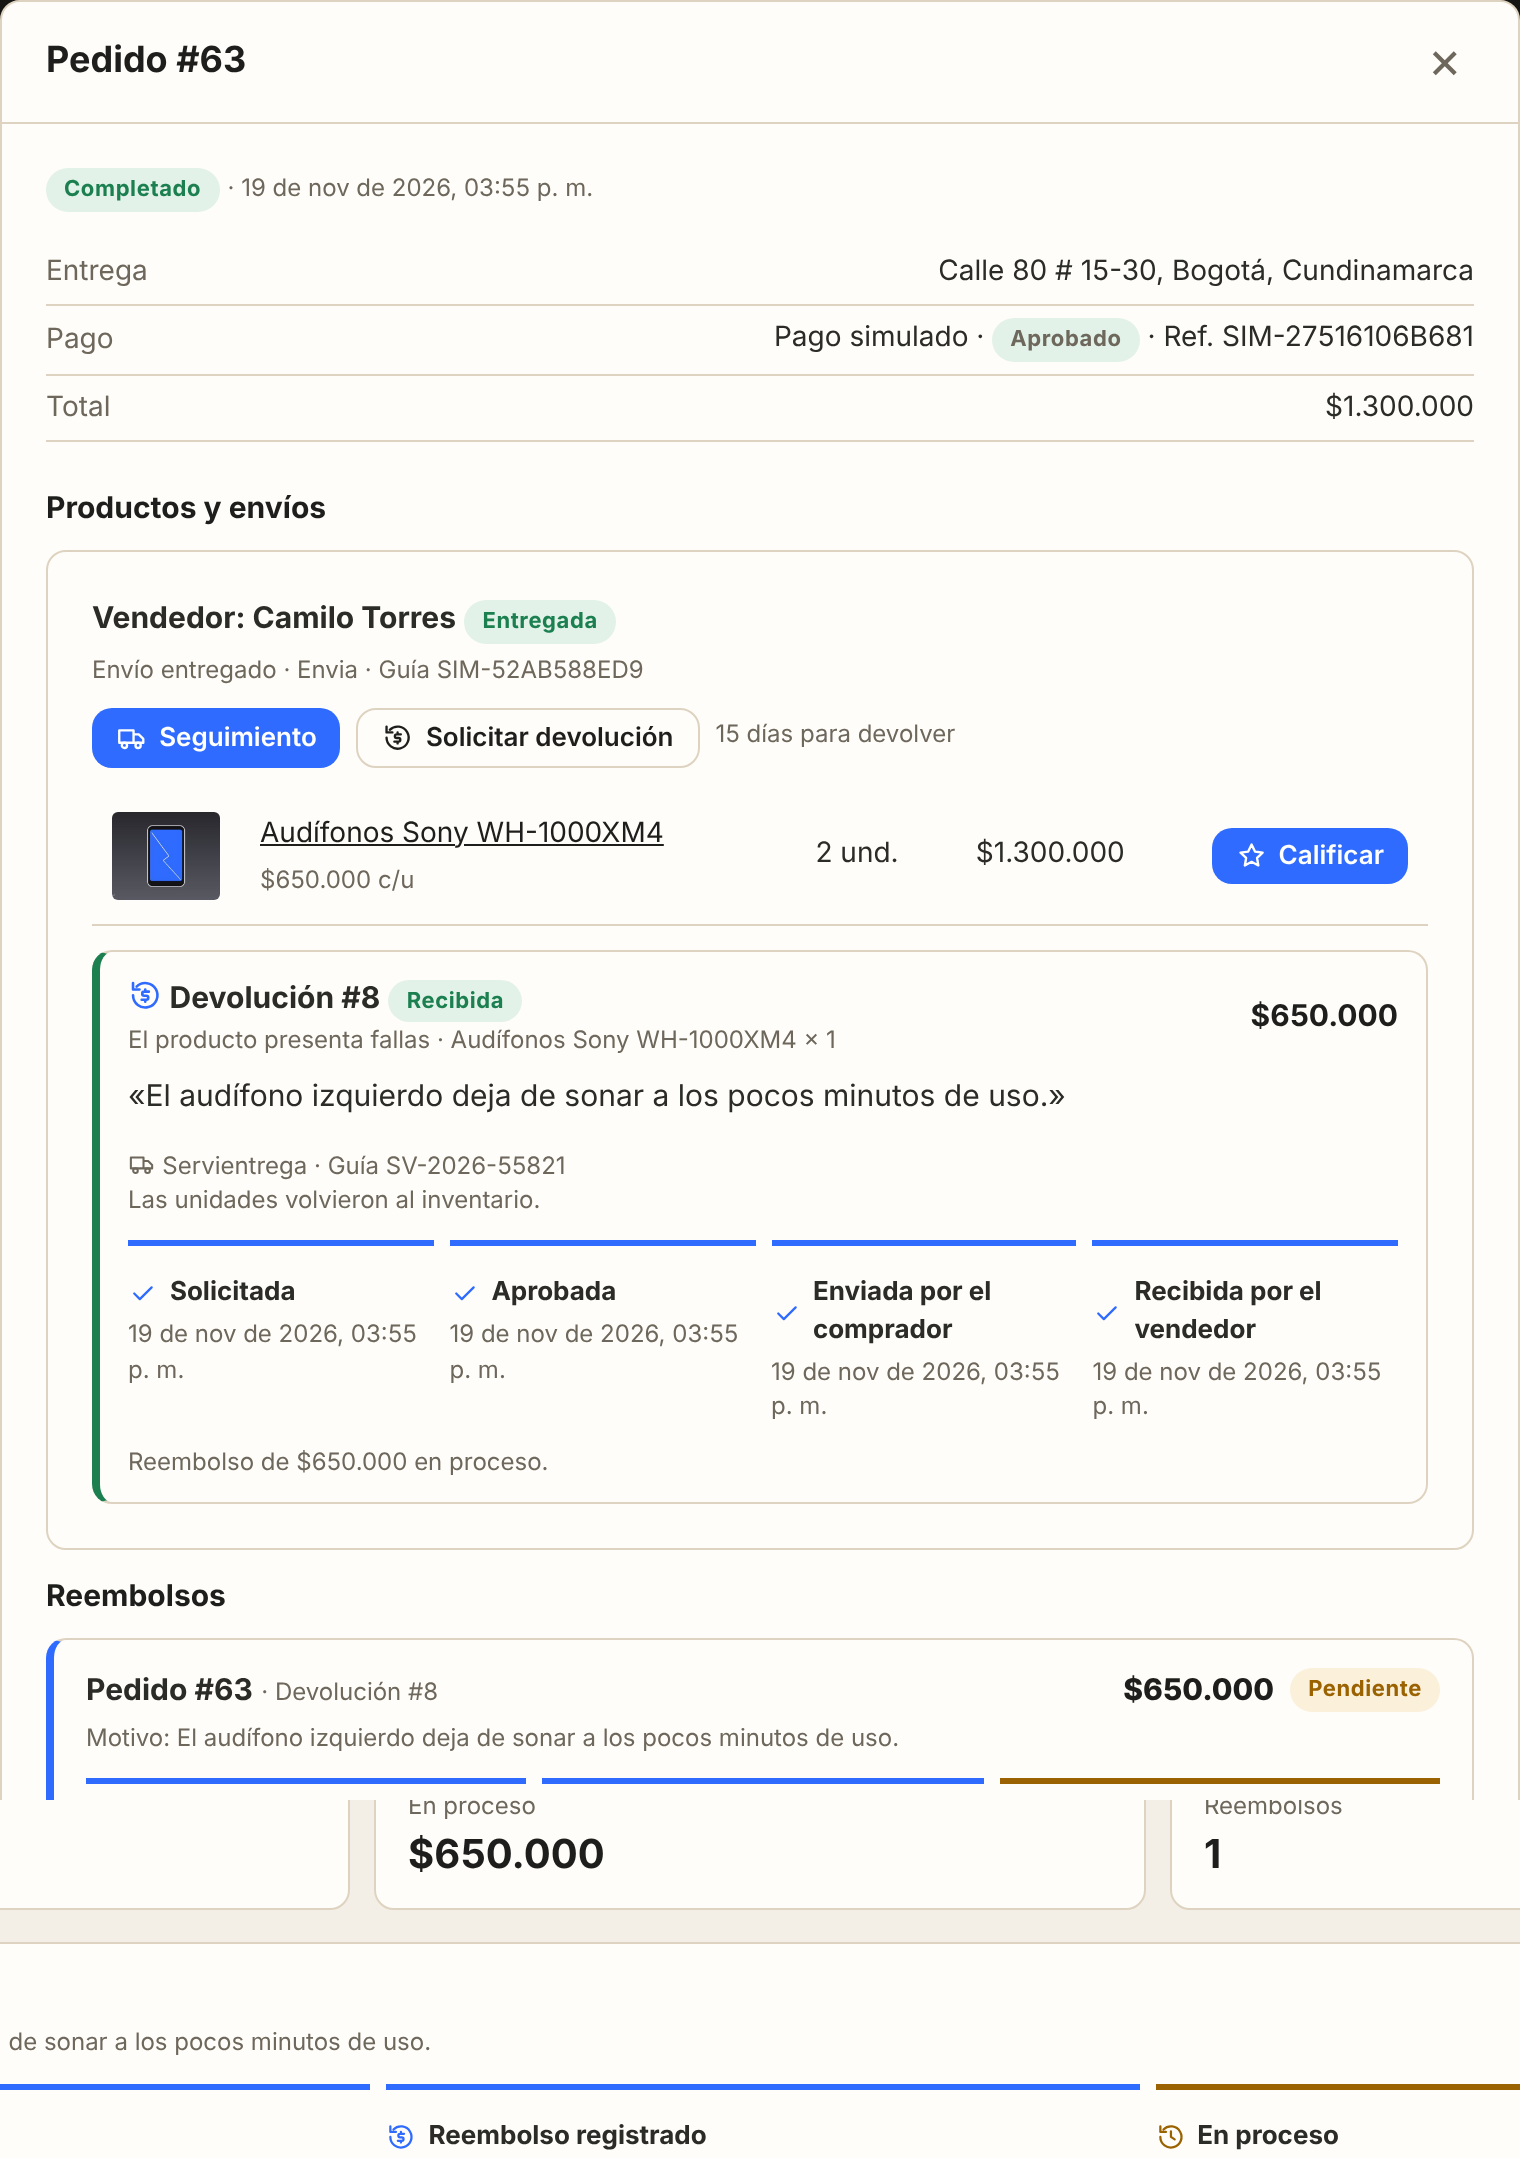
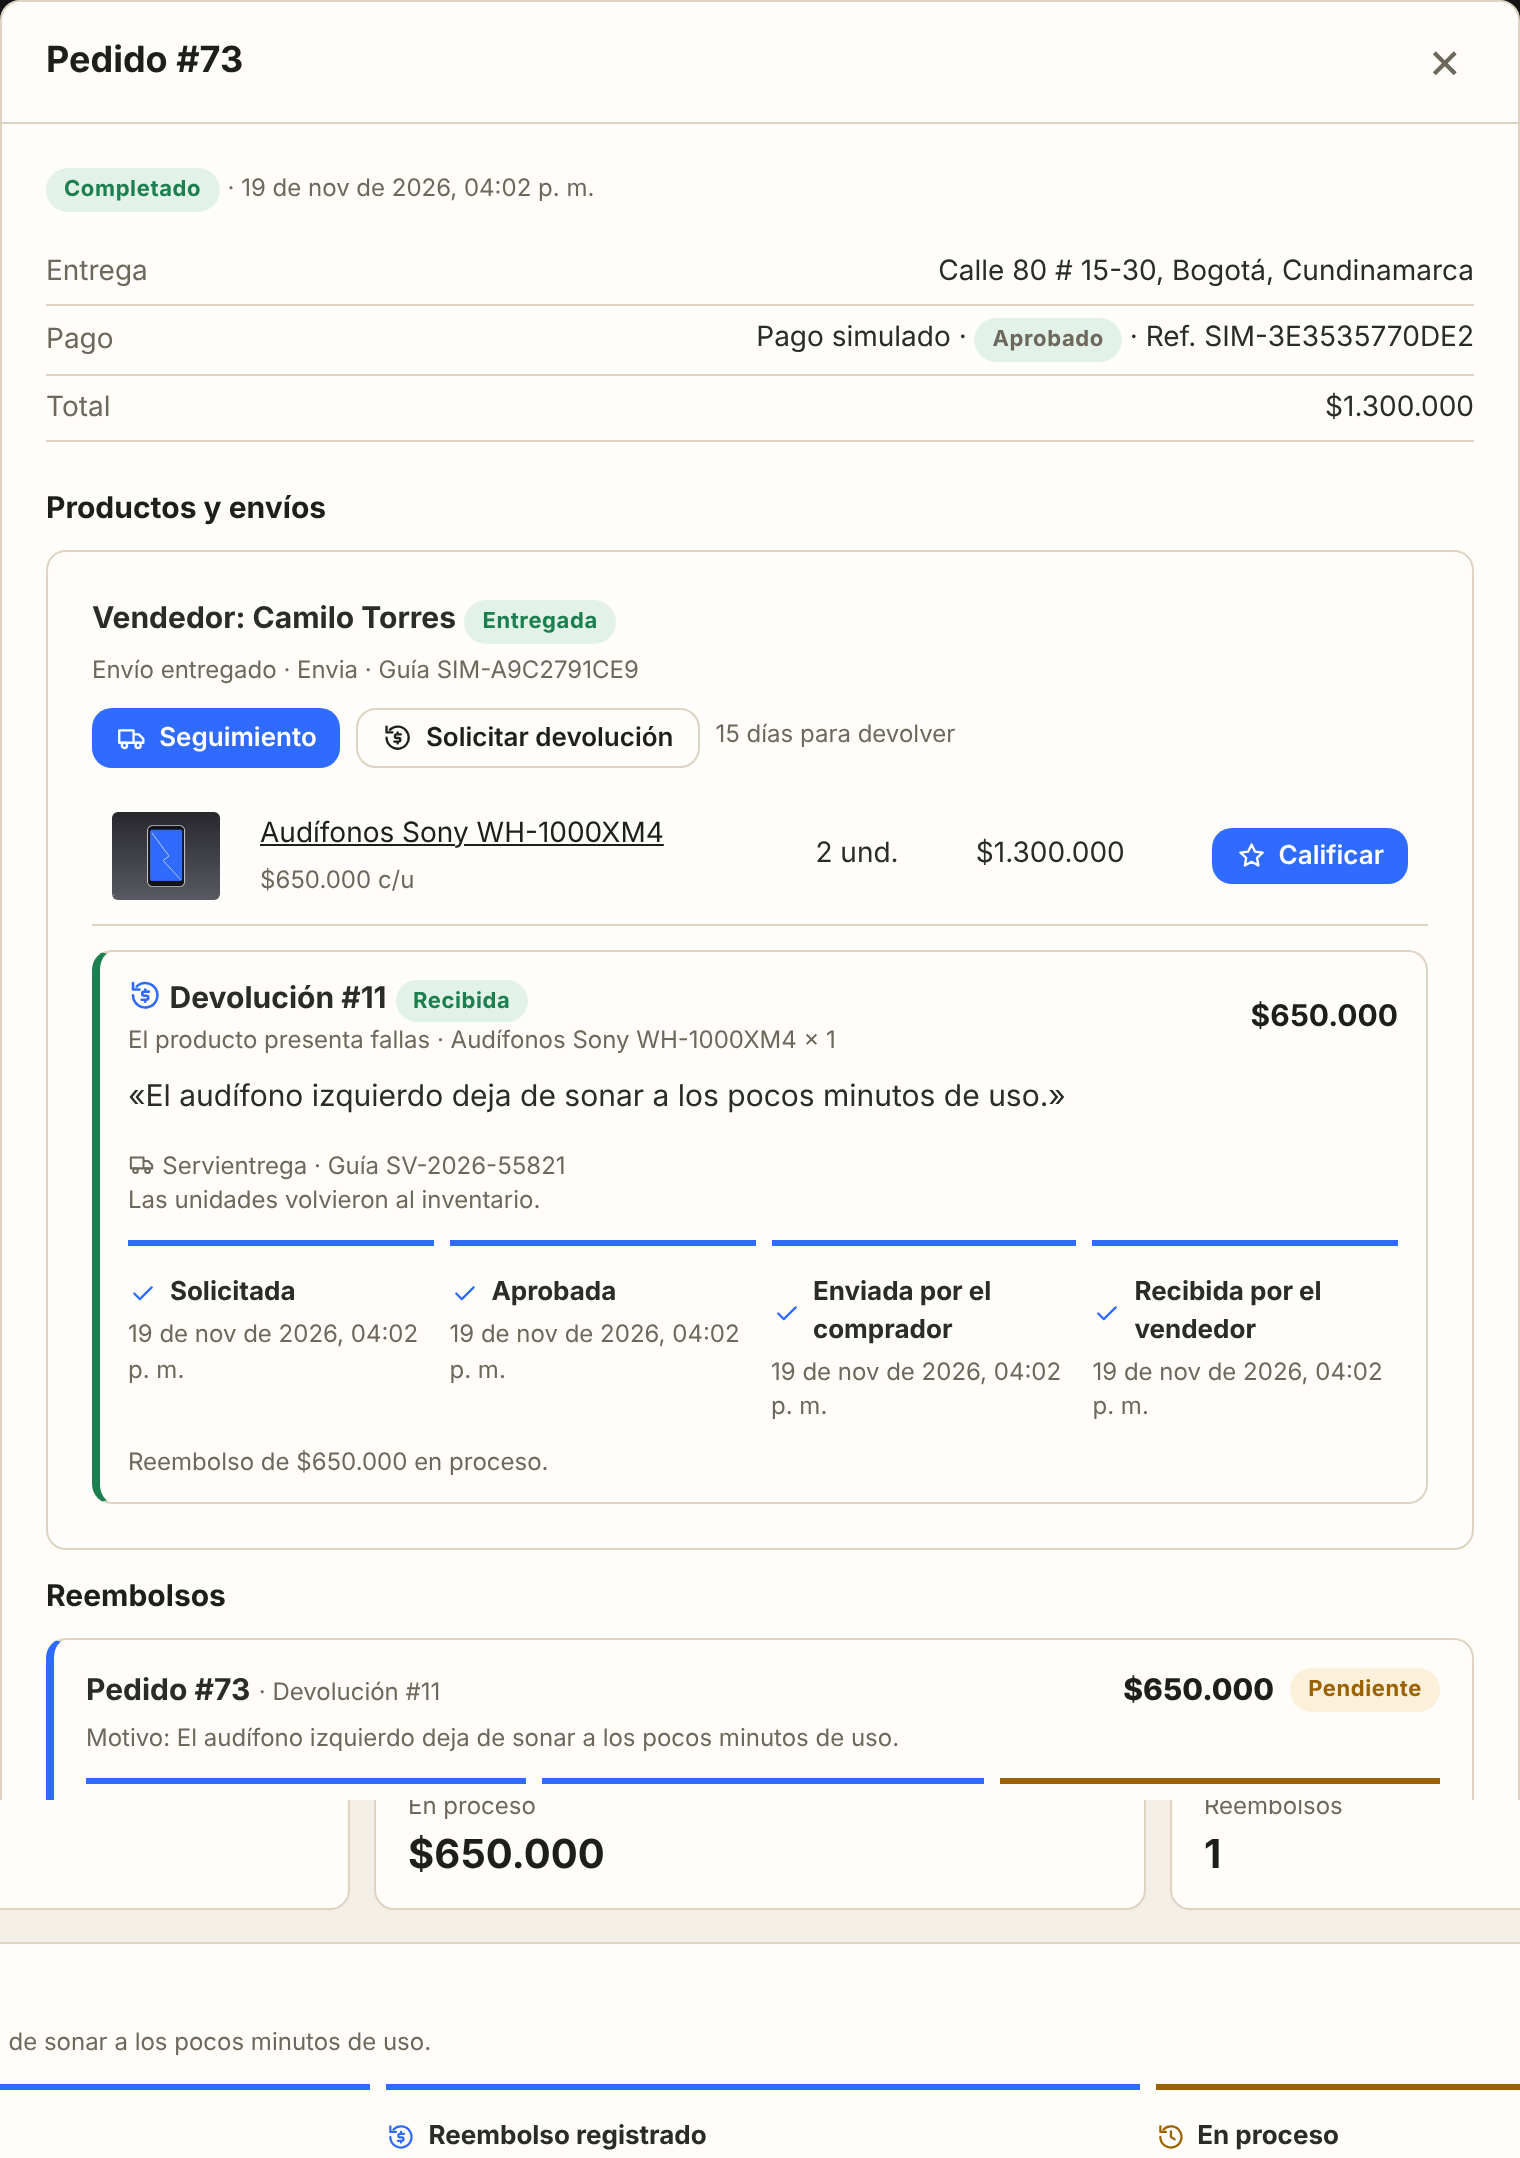
Muestra «Solicitar devolución» en la lista de Mis compras
- La lista de pedidos indica los días para devolver; el botón abre el
  detalle con el formulario de devolución.
- El detalle explica cuando falta la fecha de entrega o venció el plazo.

Claude-Session: https://claude.ai/code/session_011fjJa4im279WzeswaYJy5B

diff --git a/frontend/js/pedidos.js b/frontend/js/pedidos.js
@@ -49,7 +49,11 @@ async function cargarLista() {
                         ${p.total_cancelado > 0 ? `<span class="ayuda u-en-linea"> · ${precio(p.total_cancelado)} cancelado</span>` : ""}
                     </div>
                 </div>
-                <button type="button" class="boton boton-secundario" data-ver="${p.id_pedido}">Ver detalle</button>
+                <div class="grupo-botones">
+                    ${p.dias_para_devolver > 0 ? `<button type="button" class="boton boton-secundario" data-ver="${p.id_pedido}" data-abrir-devolucion="1"
+                        title="Te quedan ${p.dias_para_devolver} día${p.dias_para_devolver === 1 ? "" : "s"} para devolver">Solicitar devolución</button>` : ""}
+                    <button type="button" class="boton boton-secundario" data-ver="${p.id_pedido}">Ver detalle</button>
+                </div>
             </article>`).join("");
 
     } catch (e) {
@@ -240,8 +244,10 @@ function bloqueVenta(venta, productos) {
             acciones = `<span class="ayuda u-en-linea">Devolución en curso (ver abajo).</span>`;
         } else if (!disponibles.length) {
             acciones = `<span class="ayuda u-en-linea">No quedan unidades por devolver.</span>`;
+        } else if (!envio || !envio.fecha_entrega) {
+            acciones = `<span class="ayuda u-en-linea">No hay fecha de entrega registrada; no se puede calcular el plazo de devolución.</span>`;
         } else if (!(venta.dias_para_devolver > 0)) {
-            acciones = `<span class="ayuda u-en-linea">El plazo de 15 días para devolver ya venció.</span>`;
+            acciones = `<span class="ayuda u-en-linea">El plazo de 15 días para devolver venció (entregado el ${fecha(envio.fecha_entrega)}).</span>`;
         } else {
             acciones = `<button type="button" class="boton boton-secundario boton-chico" data-devolver="${venta.id_venta}">Solicitar devolución</button>
                         <span class="ayuda u-en-linea">${venta.dias_para_devolver} día${venta.dias_para_devolver === 1 ? "" : "s"} para devolver</span>`;
@@ -381,7 +387,7 @@ function formularioDevolucion(venta, productos) {
     });
 }
 
-async function abrirDetalle(idPedido) {
+async function abrirDetalle(idPedido, { devolver = false } = {}) {
     const { elemento, cerrar } = abrirModal({
         titulo: `Pedido #${idPedido}`,
         contenido: `<div class="cargando">Cargando...</div>`
@@ -411,6 +417,13 @@ async function abrirDetalle(idPedido) {
     });
 
     await recargar();
+
+    // Desde «Solicitar devolución» en la lista: abre directamente el formulario
+    if (devolver) {
+        const boton = elemento.querySelector("[data-devolver]");
+        if (boton) boton.click();
+        else aviso("Este pedido no tiene productos que se puedan devolver.", "info");
+    }
     return cerrar;
 }
 
@@ -686,7 +699,7 @@ document.addEventListener("DOMContentLoaded", () => {
 
     document.getElementById("lista").addEventListener("click", (e) => {
         const boton = e.target.closest("[data-ver]");
-        if (boton) abrirDetalle(Number(boton.dataset.ver));
+        if (boton) abrirDetalle(Number(boton.dataset.ver), { devolver: Boolean(boton.dataset.abrirDevolucion) });
     });
 
     cargarLista();

diff --git a/backend/app/services/pedidos.py b/backend/app/services/pedidos.py
@@ -536,7 +536,14 @@ def listar_pedidos(id_comprador: int, estado: str | None = None):
                     FROM Pagos PG
                     WHERE PG.IdPedido = P.IdPedido
                     ORDER BY PG.IdPago DESC
-                ) AS EstadoPago
+                ) AS EstadoPago,
+                (
+                    -- Última entrega del pedido: define el plazo para devolver
+                    SELECT MAX(E.FechaEntrega)
+                    FROM Ventas V
+                    INNER JOIN Envios E ON E.IdVenta = V.IdVenta
+                    WHERE V.IdPedido = P.IdPedido AND V.Estado = 'ENTREGADA'
+                ) AS UltimaEntrega
             FROM Pedidos P
             WHERE P.IdComprador = ?
         """
@@ -567,7 +574,8 @@ def listar_pedidos(id_comprador: int, estado: str | None = None):
                 "total": total,
                 "total_cancelado": cancelado,
                 "total_neto": round(total - cancelado, 2) if pagado else 0.0,
-                "ciudad_entrega": fila.CiudadEntrega
+                "ciudad_entrega": fila.CiudadEntrega,
+                "dias_para_devolver": dias_restantes(fila.UltimaEntrega)
             })
 
         return pedidos
